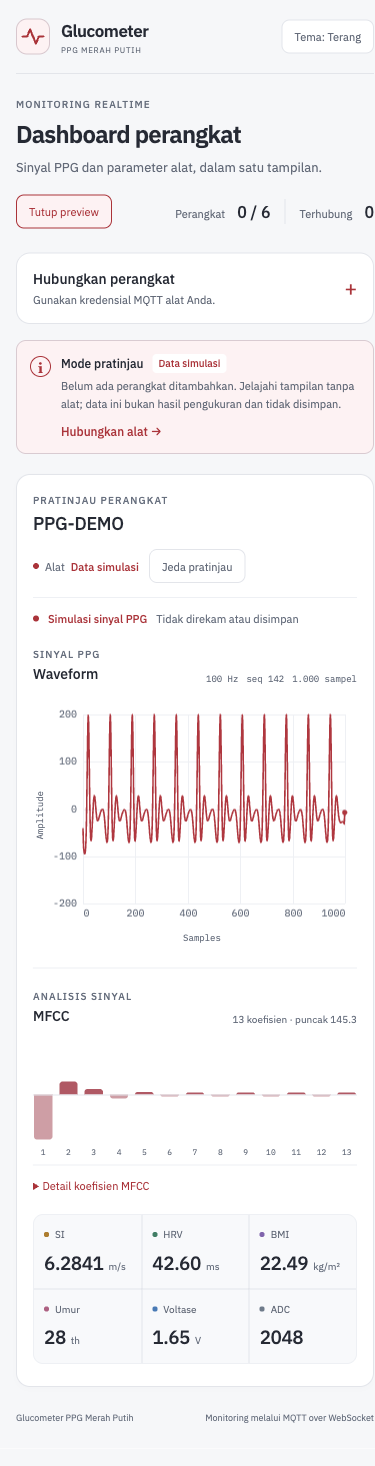
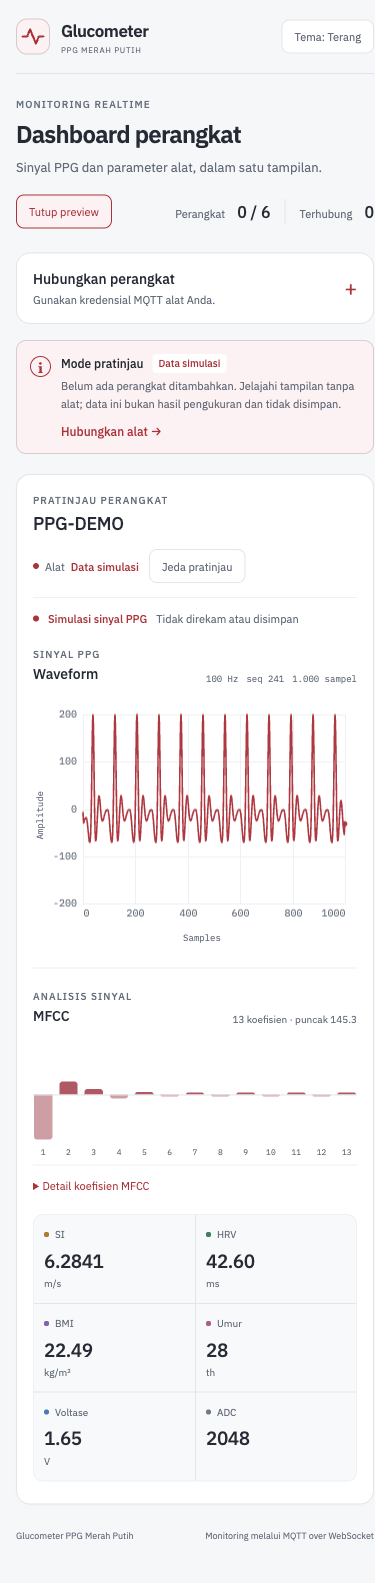
fix(frontend): keep metric values and units fully visible

diff --git a/ppg-mqtt-system/frontend/styles.css b/ppg-mqtt-system/frontend/styles.css
@@ -203,11 +203,11 @@ input::placeholder { color: var(--text-faint); }
 .device-vitals { display: grid; grid-template-columns: repeat(6, minmax(0, 1fr)); gap: 0; margin: 0 22px 22px; border: 1px solid var(--line-soft); border-radius: 10px; background: var(--bg-raised); }
 .vital { min-width: 0; padding: 14px 18px; }
 .vital + .vital { border-left: 1px solid var(--line); }
-.vital-key { display: flex; align-items: center; gap: 6px; color: var(--text-dim); font-size: 10px; }
-.vital-key::before { content: ""; width: 5px; height: 5px; border-radius: 2px; background: var(--ch); }
-.vital-row { display: flex; flex-wrap: wrap; align-items: baseline; gap: 5px; margin-top: 6px; }
-.vital-val { font-size: 23px; font-weight: 500; font-variant-numeric: tabular-nums; letter-spacing: -0.5px; }
-.vital-unit { color: var(--text-faint); font-size: 10px; }
+.vital-key { display: flex; align-items: center; gap: 6px; overflow-wrap: anywhere; color: var(--text-dim); font-size: 10px; }
+.vital-key::before { content: ""; flex: none; width: 5px; height: 5px; border-radius: 2px; background: var(--ch); }
+.vital-row { display: flex; flex-direction: column; align-items: flex-start; gap: 3px; min-width: 0; margin-top: 6px; }
+.vital-val { max-width: 100%; overflow-wrap: anywhere; font-size: 23px; font-weight: 500; font-variant-numeric: tabular-nums; line-height: 1.3; letter-spacing: -0.5px; }
+.vital-unit { max-width: 100%; overflow-wrap: anywhere; color: var(--text-faint); font-size: 10px; }
 .vital[data-stale="true"] .vital-val { color: var(--text-faint); }
 .device-more { border-top: 1px solid var(--line-soft); padding: 0 22px; }
 .device-more > summary { width: fit-content; padding: 14px 0; color: var(--text-dim); font-size: 11px; cursor: pointer; }
@@ -241,7 +241,10 @@ input::placeholder { color: var(--text-faint); }
   body { padding-inline: 24px; }
   .device-layout { grid-template-columns: minmax(0, 1.7fr) minmax(230px, 1fr); gap: 20px; }
   .mfcc-panel { padding-left: 20px; }
+  .device-vitals { grid-template-columns: repeat(3, minmax(0, 1fr)); }
   .vital { padding: 12px; }
+  .vital:nth-child(4) { border-left: 0; }
+  .vital:nth-child(n+4) { border-top: 1px solid var(--line); }
   .vital-val { font-size: 20px; }
 }
 @media (max-width: 760px) {
@@ -256,9 +259,6 @@ input::placeholder { color: var(--text-faint); }
   .mfcc-panel { border-left: 0; border-top: 1px solid var(--line-soft); padding: 20px 0 0; }
   .mfcc { margin-top: 20px; height: 96px; }
   .mfcc-empty { height: 96px; }
-  .device-vitals { grid-template-columns: repeat(3, minmax(0, 1fr)); }
-  .vital:nth-child(4) { border-left: 0; }
-  .vital:nth-child(n+4) { border-top: 1px solid var(--line); }
   .device-detail-grid { grid-template-columns: minmax(0, 1fr); }
   .preview-notice { display: grid; grid-template-columns: 21px minmax(0, 1fr); gap: 10px; }
   .preview-notice .text-btn { grid-column: 2; justify-self: start; margin-left: 0; padding: 0; }
@@ -291,8 +291,11 @@ input::placeholder { color: var(--text-faint); }
   .trace-meta { gap: 8px; font-size: 9px; }
   .device-chart { height: 225px; }
   .chart-frame { grid-template-columns: 12px minmax(0, 1fr); column-gap: 2px; }
-  .device-vitals { margin-inline: 16px; }
+  .device-vitals { grid-template-columns: repeat(2, minmax(0, 1fr)); margin-inline: 16px; }
   .vital { padding: 12px 10px; }
+  .vital:nth-child(odd) { border-left: 0; }
+  .vital:nth-child(even) { border-left: 1px solid var(--line); }
+  .vital:nth-child(n+3) { border-top: 1px solid var(--line); }
   .vital-val { font-size: 19px; }
   .device-more { padding-inline: 16px; }
   .device-dashboard > .alert { margin-inline: 16px; }

diff --git a/ppg-mqtt-system/frontend/index.html b/ppg-mqtt-system/frontend/index.html
@@ -8,7 +8,7 @@
     <link rel="preconnect" href="https://fonts.googleapis.com">
     <link rel="preconnect" href="https://fonts.gstatic.com" crossorigin>
     <link rel="stylesheet" href="https://fonts.googleapis.com/css2?family=IBM+Plex+Mono:wght@400;500&amp;family=IBM+Plex+Sans:wght@400;500;600&amp;display=swap">
-    <link rel="stylesheet" href="styles.css?v=20261021-manual-preview">
+    <link rel="stylesheet" href="styles.css?v=20261021-vitals-layout">
   </head>
   <body>
     <header class="topbar">

diff --git a/ppg-mqtt-system/tests/test_frontend_ui.py b/ppg-mqtt-system/tests/test_frontend_ui.py
@@ -11,6 +11,35 @@ FRONTEND = Path(__file__).resolve().parents[1] / "frontend"
 
 
 class FrontendUiContractTest(unittest.TestCase):
+    def test_vitals_keep_full_precision_and_reflow_without_clipping(self):
+        css = (FRONTEND / "styles.css").read_text(encoding="utf-8")
+        javascript = (FRONTEND / "app.js").read_text(encoding="utf-8")
+
+        def declarations(selector):
+            return re.search(re.escape(selector) + r"\s*\{([^}]+)\}", css).group(1)
+
+        row = declarations(".vital-row")
+        self.assertIn("flex-direction: column", row)
+        self.assertIn("align-items: flex-start", row)
+        for selector in (".vital-val", ".vital-unit"):
+            styles = declarations(selector)
+            with self.subTest(selector=selector):
+                self.assertIn("max-width: 100%", styles)
+                self.assertIn("overflow-wrap: anywhere", styles)
+                self.assertNotIn("overflow: hidden", styles)
+                self.assertNotIn("text-overflow", styles)
+                self.assertNotIn("white-space: nowrap", styles)
+
+        for width, columns in ((1050, 3), (520, 2)):
+            responsive = css.split(f"@media (max-width: {width}px)", 1)[1].split("@media", 1)[0]
+            self.assertRegex(responsive, r"\.device-vitals\s*\{[^}]*grid-template-columns:\s*"
+                             + rf"repeat\({columns}, minmax\(0, 1fr\)\)")
+
+        for identifier, digits in (("si", 4), ("hrv", 2), ("bmi", 2),
+                                   ("age", 0), ("volt", 2), ("adc", 0)):
+            self.assertRegex(javascript, rf'\{{ id: "{identifier}",[^\n]+digits: {digits} \}}')
+        self.assertIn("const text = formatNumber(value, digits);", javascript)
+
     def test_both_themes_have_readable_text_contrast(self):
         css = (FRONTEND / "styles.css").read_text(encoding="utf-8")
         themes = re.findall(r':root\[data-theme="(light|dark)"\]\s*\{([^}]+)\}', css)

diff --git a/ppg-mqtt-system/README.md b/ppg-mqtt-system/README.md
@@ -299,6 +299,12 @@ MFCC** untuk melihat nilai C01 sampai C13. Hasil perekaman dan diagnostik MQTT
 tersedia melalui panel terpisah yang dapat dibuka. Tema terang dan gelap
 dapat diubah melalui tombol tema pada header.
 
+Parameter SI, HRV, BMI, Umur, Voltase, dan ADC memakai enam kolom pada desktop,
+tiga kolom pada layar hingga 1050 piksel, dan dua kolom pada layar hingga
+520 piksel. Satuan berada di bawah nilai. Nilai panjang dapat membungkus ke
+baris berikutnya tanpa dipotong atau mengurangi presisi, pada preview maupun
+panel data MQTT.
+
 Preview visual tersedia untuk [desktop tema terang](../docs/previews/frontend-desktop-light.png),
 [desktop tema gelap](../docs/previews/frontend-desktop-dark.png), dan
 [ponsel](../docs/previews/frontend-mobile-light.png). Untuk menjalankan preview
